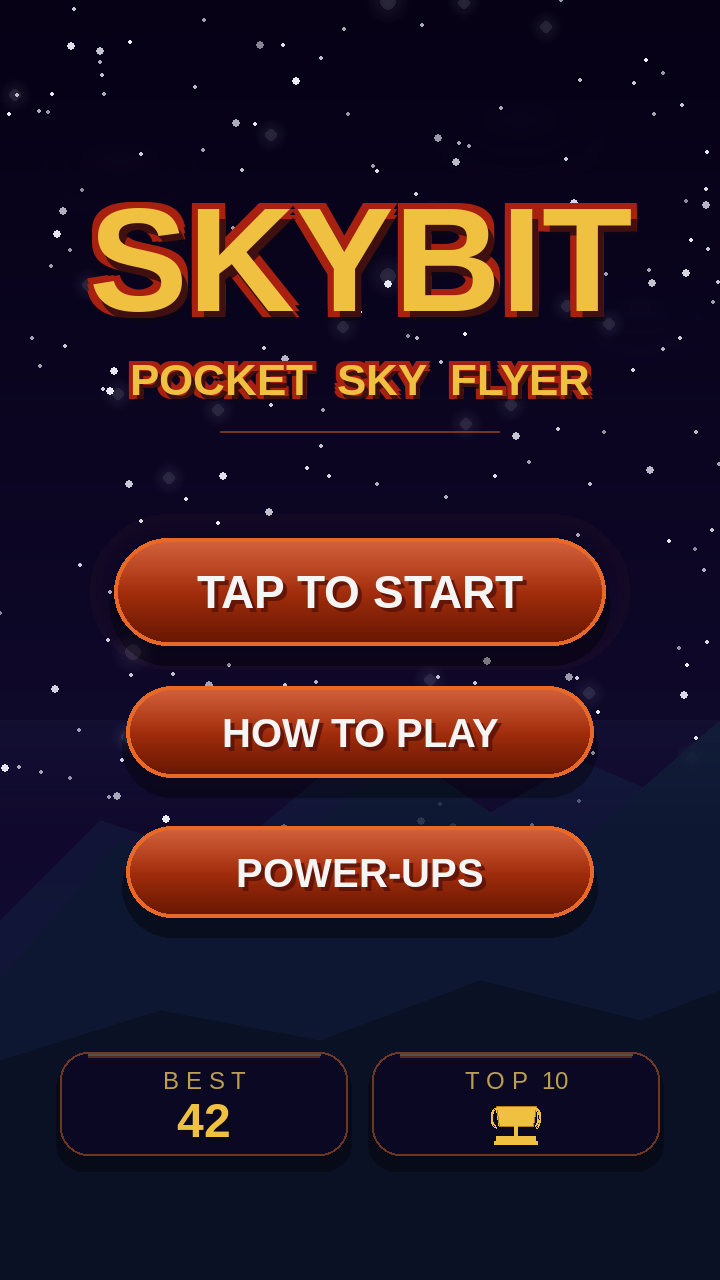
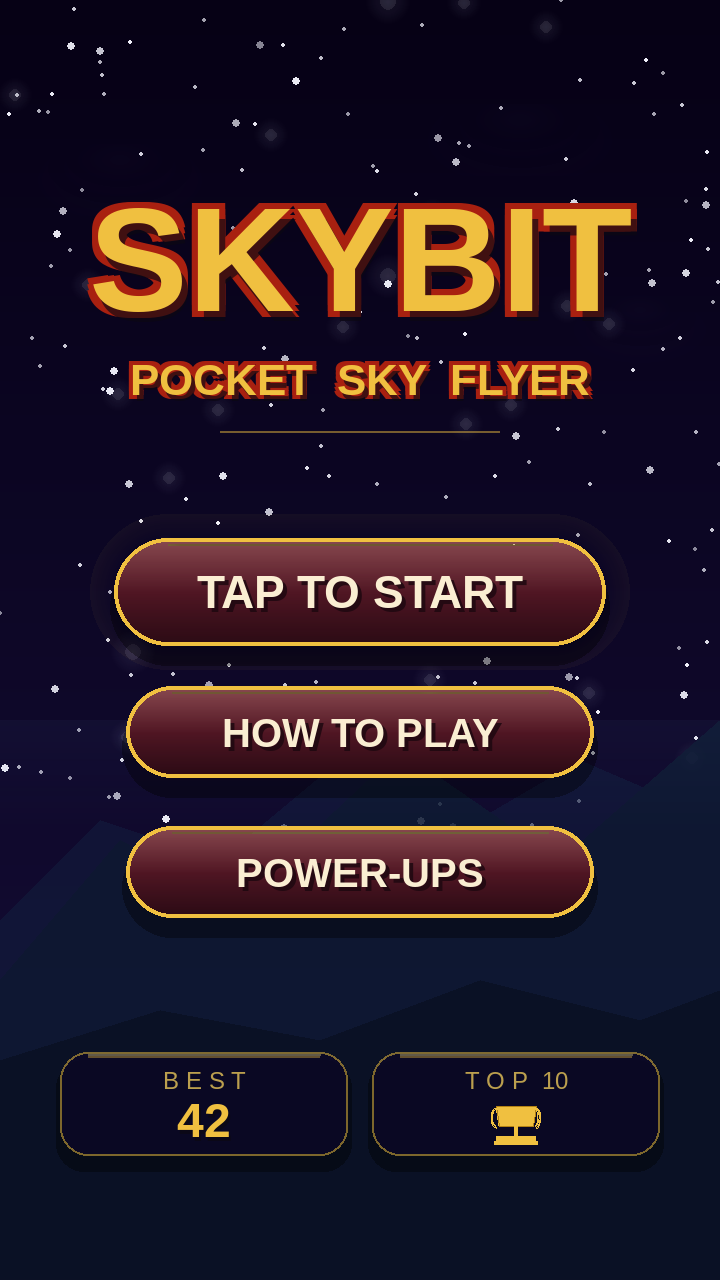
menu polish: realign pills + accents to the night-sky theme
The bright orange-red pill buttons felt imported from a different
game — too warm/hot for the deep navy night-sky scene. This pass
deepens the body and pulls every accent into one cohesive gold
system:

  * Pill body: deep wine/burgundy gradient (108,32,46 -> 54,14,26)
    instead of bright orange-red (200,64,24 -> 126,28,2). Sits in
    the night palette rather than popping out of it.
  * Pill border: GOLD_BRIGHT (replaces ORANGE_BORDER) so it ties
    straight to the title's gold fill.
  * Pill text: cream (250,238,210) instead of pure white, warmer
    and more premium against the wine body.
  * Pill text shadow: deep-burgundy instead of red — same colour
    family as the pill body.
  * Primary glow: gold (replaces orange) so the halo reads as
    warm light, not orange plastic.
  * Divider: gold instead of orange — matches title fill.
  * BEST + TOP 10 panel edge stroke + top accent strip: gold
    instead of orange — every minor line is now part of one
    gold accent system.

The only red on the screen is now the title outline, which keeps
its hero status. Everything else speaks a unified
deep-night + gold-trim language.

https://claude.ai/code/session_018aMR2JMRznXecCbr8wqCRe

Changed region(s): [[0.1528, 0.4062, 0.8556, 0.7188]]

diff --git a/tools/gen_v3_professional.py b/tools/gen_v3_professional.py
@@ -62,8 +62,13 @@ GOLD_DEEP     = (180, 130,  20)
 RED_OUTLINE   = (168,  32,  16)
 RED_DEEP      = ( 90,  18,   8)
 ORANGE_BORDER = (232, 104,  40)
-BTN_TOP       = (200,  64,  24)
-BTN_BOT       = (126,  28,   2)
+# Pill body — refined wine/burgundy that sits in the night palette
+# instead of popping out as a bright orange-red.
+BTN_TOP       = (108,  32,  46)
+BTN_BOT       = ( 54,  14,  26)
+# Tertiary cream for pill text — premium, warm white that ties to the
+# canonical gold without losing readability on the dark pill body.
+PILL_TEXT     = (250, 238, 210)
 PANEL_DARK    = ( 12,   8,  38)
 NIGHT_DEEP    = (  6,   1,  21)
 NIGHT_MID     = ( 22,  14,  58)
@@ -191,10 +196,10 @@ def skybit_subtitle(surf, cx, cy, size=22):
 
 
 def divider(surf, cy, width=140):
-    """Single canonical orange divider — same alpha rule as accent strips
-    on the panels below, so all minor lines feel like one system."""
+    """Gold hairline — matches the title fill + the panel accents so
+    every minor line on the screen belongs to one gold accent system."""
     line = pygame.Surface((width * SCALE, 1 * SCALE), pygame.SRCALPHA)
-    line.fill((*ORANGE_BORDER, 120))
+    line.fill((*GOLD_BRIGHT, 120))
     surf.blit(line, line.get_rect(center=(W // 2, cy)))
 
 
@@ -207,18 +212,20 @@ def pill(surf, center, text, size=22, min_w=240, h=48, primary=False):
     h *= SCALE
     cx, cy = center
     f = font(size, True)
-    img = f.render(text, True, WHITE)
+    img = f.render(text, True, PILL_TEXT)
     w = max(min_w * SCALE, img.get_width() + 50 * SCALE)
     x = cx - w // 2
     y = cy - h // 2
 
     if primary:
-        # Outer orange glow halo — very faint, falls off to invisible
+        # Outer gold glow halo — very faint, falls off to invisible.
+        # Uses GOLD_BRIGHT (canonical) so the halo reads as warm
+        # rather than orange-plastic.
         glow = pygame.Surface((w + 28 * SCALE, h + 28 * SCALE),
                               pygame.SRCALPHA)
         for r in range(12 * SCALE, 0, -SCALE):
-            a = int(36 * r / (12 * SCALE))
-            pygame.draw.rect(glow, (*ORANGE_BORDER, a // 4),
+            a = int(40 * r / (12 * SCALE))
+            pygame.draw.rect(glow, (*GOLD_BRIGHT, a // 4),
                              (14 * SCALE - r, 14 * SCALE - r,
                               w + r * 2, h + r * 2),
                              border_radius=(h + r * 2) // 2)
@@ -254,13 +261,20 @@ def pill(surf, center, text, size=22, min_w=240, h=48, primary=False):
     pygame.draw.rect(mask, (255, 255, 255, 255), (0, 0, w, h),
                      border_radius=h // 2)
     p.blit(mask, (0, 0), special_flags=pygame.BLEND_RGBA_MIN)
-    # Orange border — canonical
-    pygame.draw.rect(p, ORANGE_BORDER, (0, 0, w, h),
+    # Gold border — ties pills to the title fill + the BEST/TOP 10
+    # accent system so every interactive surface speaks the same
+    # gold-on-deep-night language.
+    pygame.draw.rect(p, GOLD_BRIGHT, (0, 0, w, h),
                      width=2 * SCALE, border_radius=h // 2)
+    # Thin inner gold hint at the very top inside the rim
+    pygame.draw.line(p, (*GOLD_BRIGHT, 110),
+                     (h // 2, 3 * SCALE),
+                     (w - h // 2, 3 * SCALE), 1 * SCALE)
     surf.blit(p, (x, y))
 
-    # Text — white, with a dark red shadow (in the family of the pill)
-    shadow = f.render(text, True, RED_DEEP)
+    # Text — cream-white with a deep-burgundy shadow (in the family of
+    # the pill body, not orange).
+    shadow = f.render(text, True, (30, 8, 16))
     shadow.set_alpha(220)
     tr = img.get_rect(center=(cx, cy))
     surf.blit(shadow, (tr.x + 2 * SCALE, tr.y + 2 * SCALE))
@@ -282,16 +296,16 @@ def best_panel(surf, rect, label, value):
     pygame.draw.rect(pnl, (*PANEL_DARK, 210),
                      (0, 0, rect.w, rect.h),
                      border_radius=14 * SCALE)
-    # Orange edge stroke (canonical, low alpha)
-    pygame.draw.rect(pnl, (*ORANGE_BORDER, 120),
+    # Gold edge stroke — matches the pill border + title fill
+    pygame.draw.rect(pnl, (*GOLD_BRIGHT, 130),
                      (0, 0, rect.w, rect.h),
                      width=1 * SCALE, border_radius=14 * SCALE)
-    # Top accent strip (same orange / alpha — system feel)
+    # Top accent strip — gold to match the system
     accent = pygame.Surface((rect.w - 28 * SCALE, 2), pygame.SRCALPHA)
-    accent.fill((*ORANGE_BORDER, 100))
+    accent.fill((*GOLD_BRIGHT, 110))
     pnl.blit(accent, (14 * SCALE, 4))
     # Hairline top highlight
-    pygame.draw.line(pnl, (255, 220, 140, 80),
+    pygame.draw.line(pnl, (255, 220, 140, 90),
                      (14 * SCALE, 2),
                      (rect.w - 14 * SCALE, 2), 1 * SCALE)
     surf.blit(pnl, rect.topleft)
@@ -321,13 +335,13 @@ def top10_panel(surf, rect):
     pygame.draw.rect(pnl, (*PANEL_DARK, 210),
                      (0, 0, rect.w, rect.h),
                      border_radius=14 * SCALE)
-    pygame.draw.rect(pnl, (*ORANGE_BORDER, 120),
+    pygame.draw.rect(pnl, (*GOLD_BRIGHT, 130),
                      (0, 0, rect.w, rect.h),
                      width=1 * SCALE, border_radius=14 * SCALE)
     accent = pygame.Surface((rect.w - 28 * SCALE, 2), pygame.SRCALPHA)
-    accent.fill((*ORANGE_BORDER, 100))
+    accent.fill((*GOLD_BRIGHT, 110))
     pnl.blit(accent, (14 * SCALE, 4))
-    pygame.draw.line(pnl, (255, 220, 140, 80),
+    pygame.draw.line(pnl, (255, 220, 140, 90),
                      (14 * SCALE, 2),
                      (rect.w - 14 * SCALE, 2), 1 * SCALE)
     surf.blit(pnl, rect.topleft)
